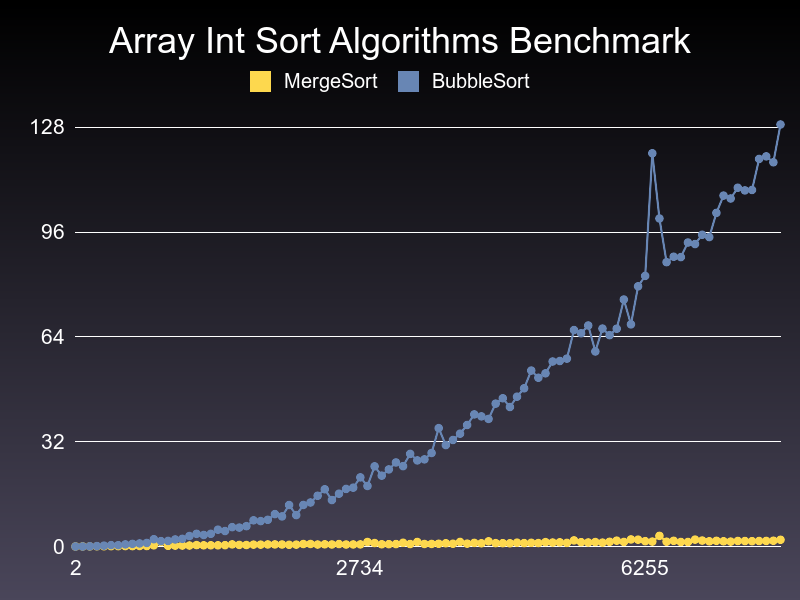
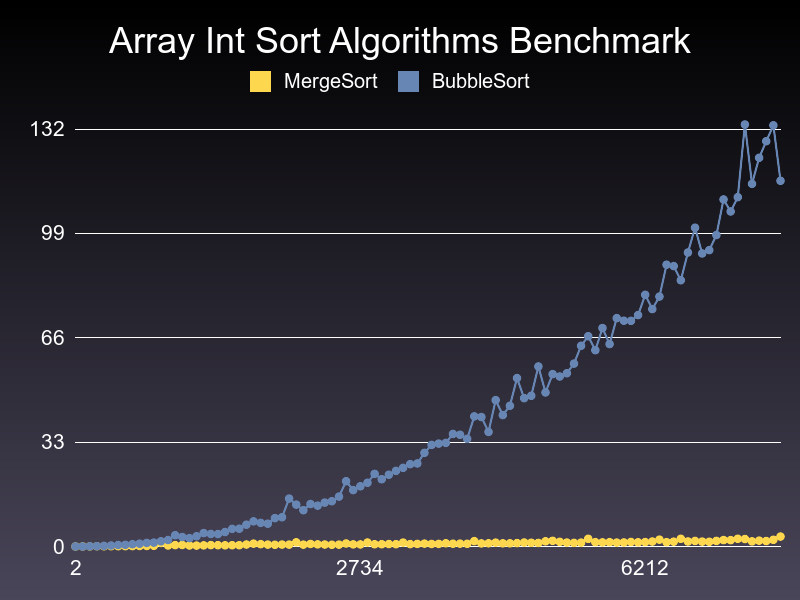
compare only 1 by 1 algorithms in the benchmark

diff --git a/lib/sorting_arrays_benchmark.rb b/lib/sorting_arrays_benchmark.rb
@@ -12,9 +12,9 @@ if __FILE__ == $0
 
   algorithms = [
     Sorting::MergeSort.new, 
-    Sorting::InsertionSort.new, 
-    Sorting::BubbleSort.new, 
-    Sorting::SelectionSort.new
+    #Sorting::InsertionSort.new, 
+    Sorting::BubbleSort.new#, 
+    #Sorting::SelectionSort.new
   ]
   algorithms_times = {}
   

diff --git a/README.md b/README.md
@@ -32,10 +32,6 @@ To compare the 4 algorithms benchmarking execute:
 
 This also will generate a graphic comparison:
 
-MergeSort vs InsertionSort vs BubbleSort vs SelectionSort
-
-![alt tag](https://github.com/TOAST3R/sorting_algorithms/blob/master/MergeSort_vs_InsertionSort_vs_BubbleSort_vs_SelectionSort.png)
-
 InsertionSort vs SelectionSort
 ![alt tag](https://github.com/TOAST3R/sorting_algorithms/blob/master/InsertionSort_vs_SelectionSort.png)
 
